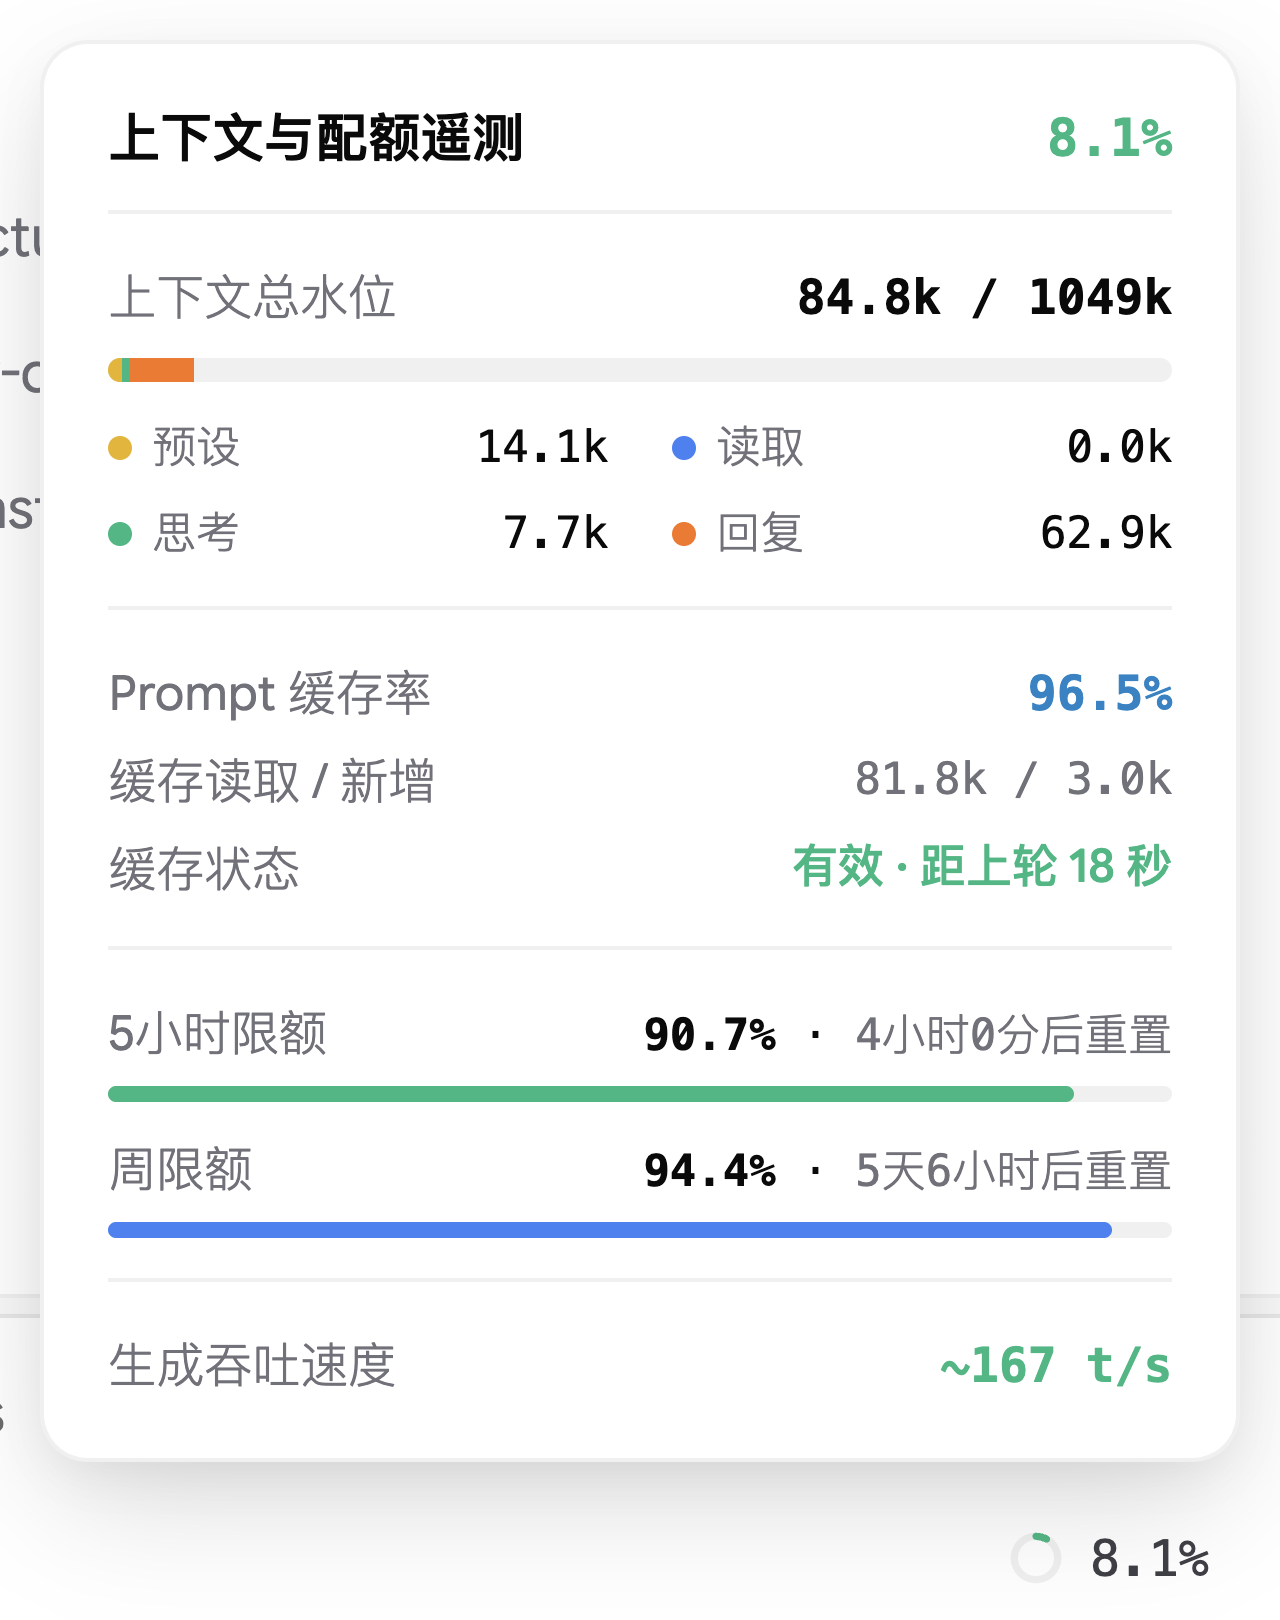
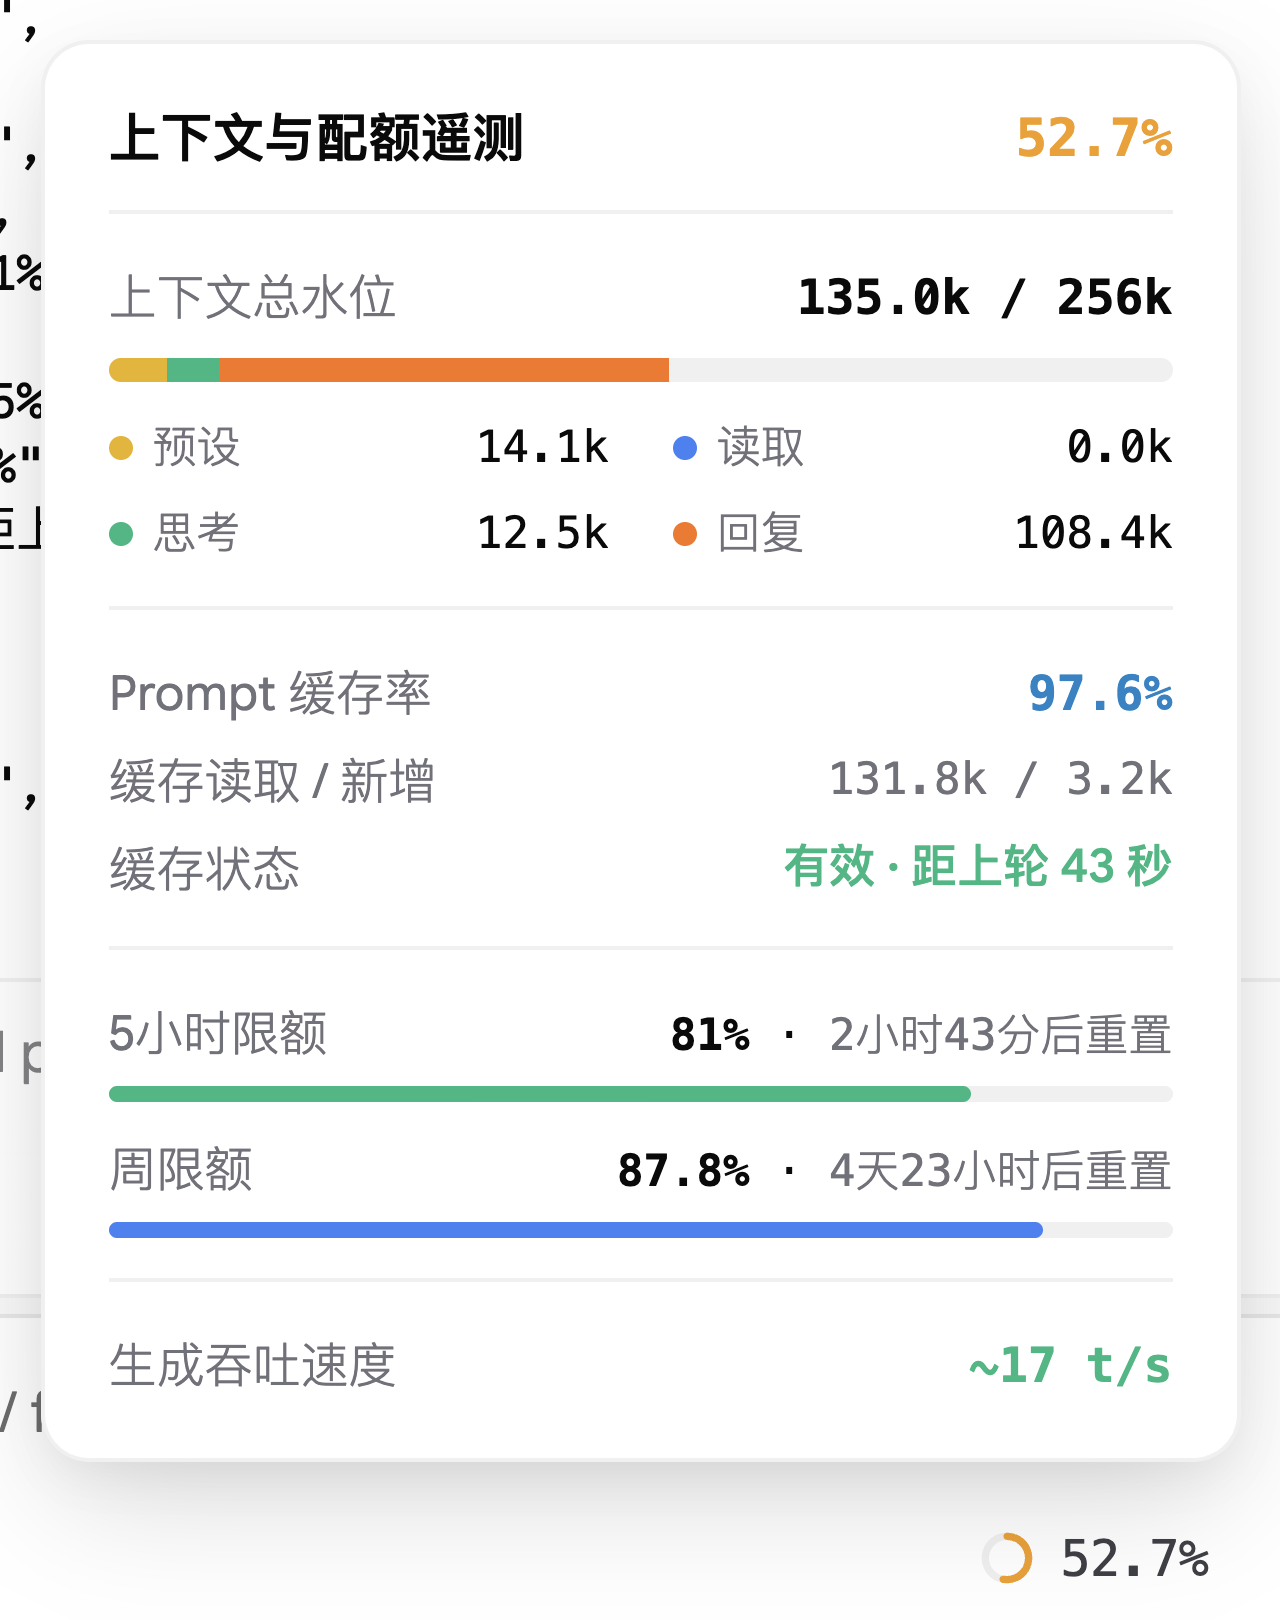
fix: dynamically adapt to Antigravity true context limit (256k/160k)

diff --git a/README.md b/README.md
@@ -1,6 +1,6 @@
 # Orbit · 上下文与配额遥测 (agy-orbit)
 
-专为 **Google Antigravity** 打造的底栏无感遥测插件。实时掌控 1M 上下文水位、四段 Token 成分、Prompt 缓存时效与官方账户配额进度。
+专为 **Google Antigravity** 打造的底栏无感遥测插件。实时掌控真实会话上下文水位、四段 Token 成分、Prompt 缓存时效与官方账户配额进度。
 
 <p align="center">
   <img src="assets/preview-footer.png" width="90%" alt="Antigravity 输入框底栏内联圆环与百分比" />
@@ -14,9 +14,9 @@
 
 ## 特性亮点
 
-- **底栏极简内联圆环**：无缝挂载在输入框底栏 `Auto` 按钮左侧。实时呈现 1M 上下文占比，依据水位动态变换状态指示色（绿色安全、琥珀警示、红色临界）。
+- **底栏极简内联圆环**：无缝挂载在输入框底栏 `Auto` 按钮左侧。实时呈现会话上下文占用水位，依据负载动态变换状态指示色（绿色安全、琥珀警示、红色临界）。
 - **点击展开 / 外部收起**：严格遵循用户交互意图，点击圆环开关弹窗，鼠标悬停仅提供轻量底色反馈，绝不误触弹出；点击空白处自动收起。
-- **104.9 万上下文比例标尺**：底槽真实代表 1M（1,048,576 Tokens）全局窗口，四段彩色滑块严格按实际占用水位紧凑排列，剩余为未占用底槽：
+- **动态上下文比例标尺（自适应真实上限）**：虽底层模型原生支持更大窗口，但 Antigravity 对会话分配了独立的有效安全窗口（例如 Gemini 会话上限为 **256k**，Claude 会话上限为 **160k**）。本插件通过读取会话原生元数据实时解析当前模型的真实上限，四段彩色滑块严格按实际占用水位紧凑排列，剩余为未占用底槽：
   - **预设 (系统/初始化)**：黄色滑块
   - **读取 (工具与文件)**：蓝色滑块
   - **思考 (推理链)**：绿色滑块
@@ -101,7 +101,7 @@ git clone https://github.com/luluxiaoyu/agy-orbit.git "$HOME\.gemini\config\plug
 1. **Sidecar 守护机制**：通过 Antigravity 规范的后台 Sidecar 进程常驻运行，进程崩溃或客户端重启时自动拉起。
 2. **CDP 动态挂载**：通过 Chrome DevTools Protocol 探针建立 WebSocket 链路，直接对客户端界面注入自愈型 DOM 节点，不修改 Antigravity 任何源码，升级客户端不影响使用。
 3. **数据源层**：
-   - **上下文与缓存遥测**：实时流式解析本地会话 Transcript 日志，精确计算 Token 分布与生成吞吐速度；
+   - **上下文动态上限与遥测**：实时流式解析本地 SQLite 元数据与会话日志，动态读取 Antigravity 为当前模型设定的上下文上限（如 256k / 160k），精确计算 Token 分布与生成吞吐速度；
    - **账户额度**：通过本地通信通道直连官方 LanguageServer RPC 服务读取配额桶，无需任何 API Key。
 
 ---

diff --git a/README.en.md b/README.en.md
@@ -2,7 +2,7 @@
 
 [中文文档](./README.md) | **English**
 
-A seamless bottom-bar telemetry plugin designed specifically for **Google Antigravity**. Monitor 1M context usage, 4-stage token breakdown, prompt cache validity countdown, and official account quota limits in real time.
+A seamless bottom-bar telemetry plugin designed specifically for **Google Antigravity**. Monitor real-time conversation context usage, 4-stage token breakdown, prompt cache validity countdown, and official account quota limits.
 
 <p align="center">
   <img src="assets/preview-footer.png" width="90%" alt="Antigravity composer footer inline progress ring" />
@@ -16,14 +16,14 @@ A seamless bottom-bar telemetry plugin designed specifically for **Google Antigr
 
 ## Highlights
 
-- **Inline Composer Footer Ring**: Mounts seamlessly to the left of the `Auto` button in the composer footer. Displays 1M context percentage with dynamic status colors (green safe, amber warning, red critical).
+- **Inline Composer Footer Ring**: Mounts seamlessly to the left of the `Auto` button in the composer footer. Displays context percentage with dynamic status colors (green safe, amber warning, red critical).
 - **Click to Toggle / Outside to Close**: Clicking the ring opens/closes the telemetry dashboard. Hover only provides subtle button feedback to prevent accidental popups; clicking outside automatically closes it.
-- **1,048k Context Window Proportional Bar**: The progress bar track accurately represents the full 1M (1,048,576 tokens) context window. Segments are proportionally stacked to indicate used capacity, while the remaining portion represents available headroom:
+- **Adaptive Context Window Limit**: While underlying models may theoretically support 1M+ tokens, Antigravity assigns practical safe session limits (e.g. **256k** for Gemini, **160k** for Claude). Orbit dynamically reads the exact limit from Antigravity's native metadata and scales the progress bar proportionally:
   - **Preset (System/Init)**: Amber segment
   - **Read (Tools/Files)**: Blue segment
   - **Think (Chain of Thought)**: Green segment
   - **Output (Responses)**: Orange segment
-- **2×2 Clean Legend Grid**: Structured dual-column grid prevents Chinese/English character wrapping, using monospace font for token metrics.
+- **2×2 Clean Legend Grid**: Structured dual-column grid prevents character wrapping, using monospace font for token metrics.
 - **Prompt Cache Status Tracker**: Tracks cache hit rate (%) and cached vs new tokens. Accurately counts elapsed time since the previous model turn:
   - `< 180s`: `Valid · X s since last turn` (Green)
   - `180s ~ 240s`: `Expiring · X s remaining` (Amber warning to reuse warm cache)
